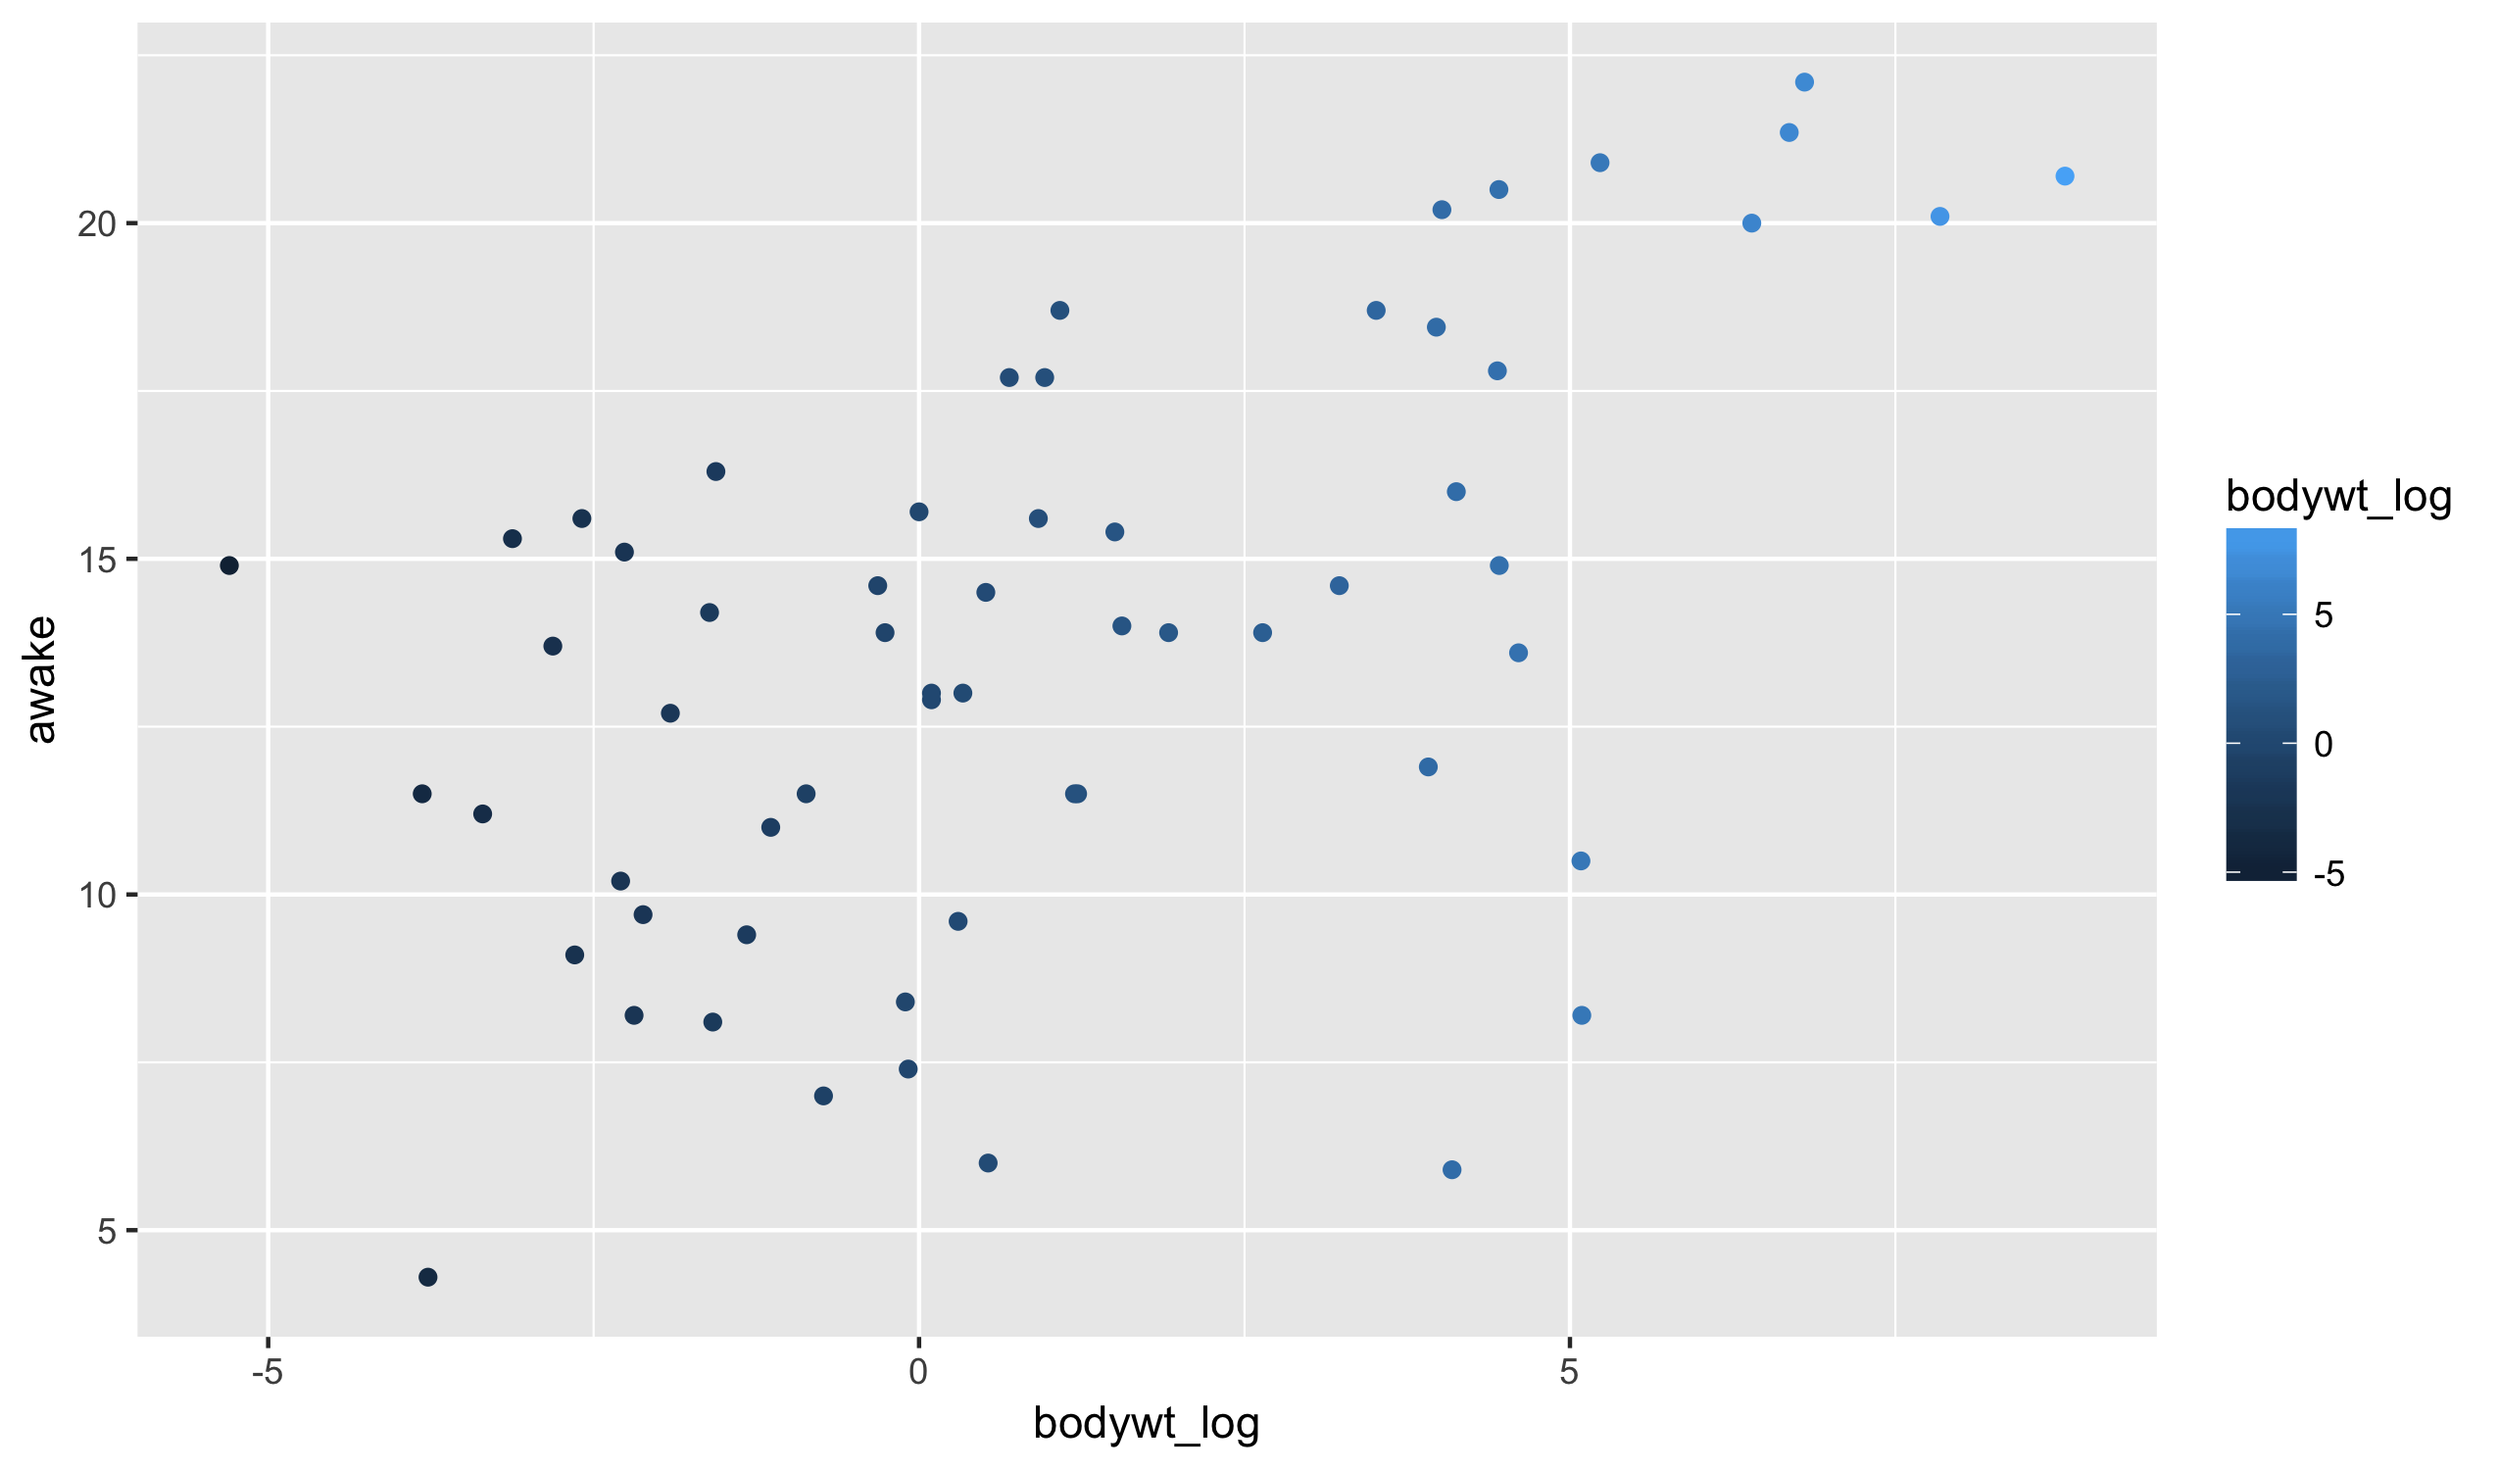
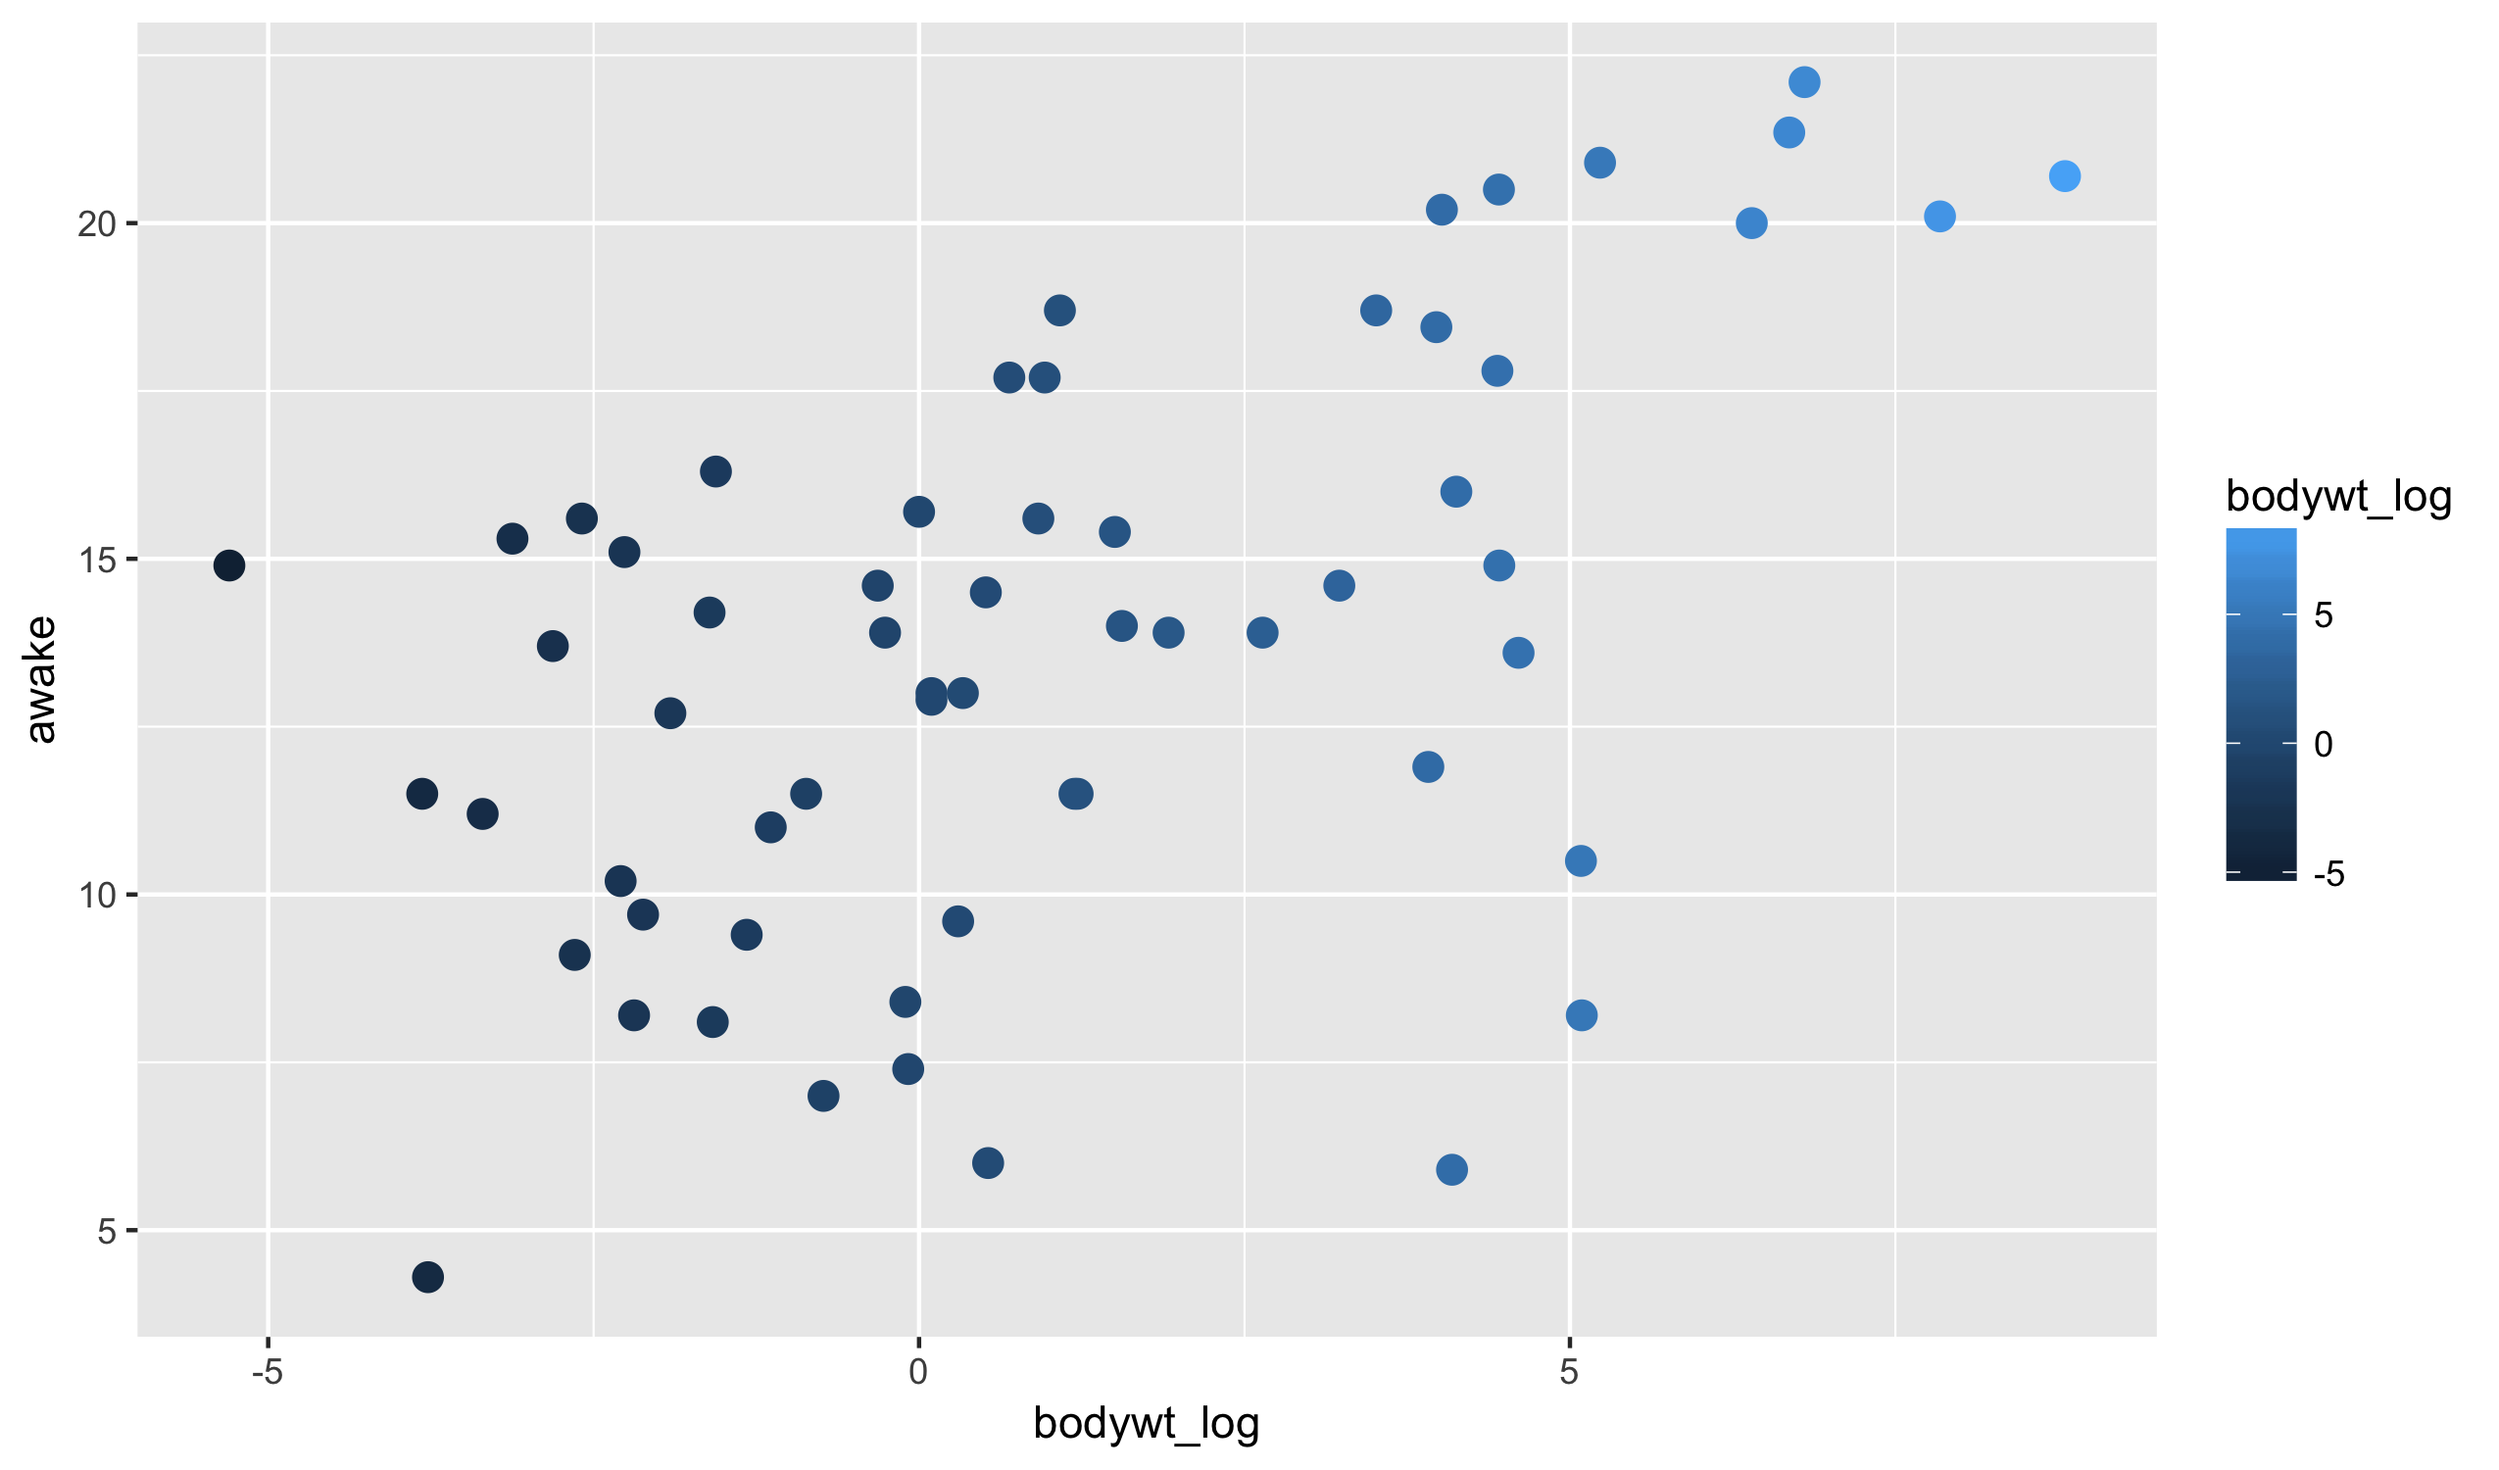
update figs

diff --git a/_posts/2017-08-31-class02.md b/_posts/2017-08-31-class02.md
@@ -249,7 +249,8 @@ one. Notice here how a color gradient is used in place of a fixed scale:
 
 
 {% highlight r %}
-qplot(bodywt_log, awake, data = msleep, color = bodywt_log)
+qplot(bodywt_log, awake, data = msleep, color = bodywt_log,
+      size = I(3))
 {% endhighlight %}
 
 
@@ -275,7 +276,8 @@ would like to make use of:
 
 
 {% highlight r %}
-qplot(bodywt_log, awake, data = msleep, color = bodywt_log) +
+qplot(bodywt_log, awake, data = msleep, color = bodywt_log,
+      size = I(3)) +
   scale_color_viridis()
 {% endhighlight %}
 
